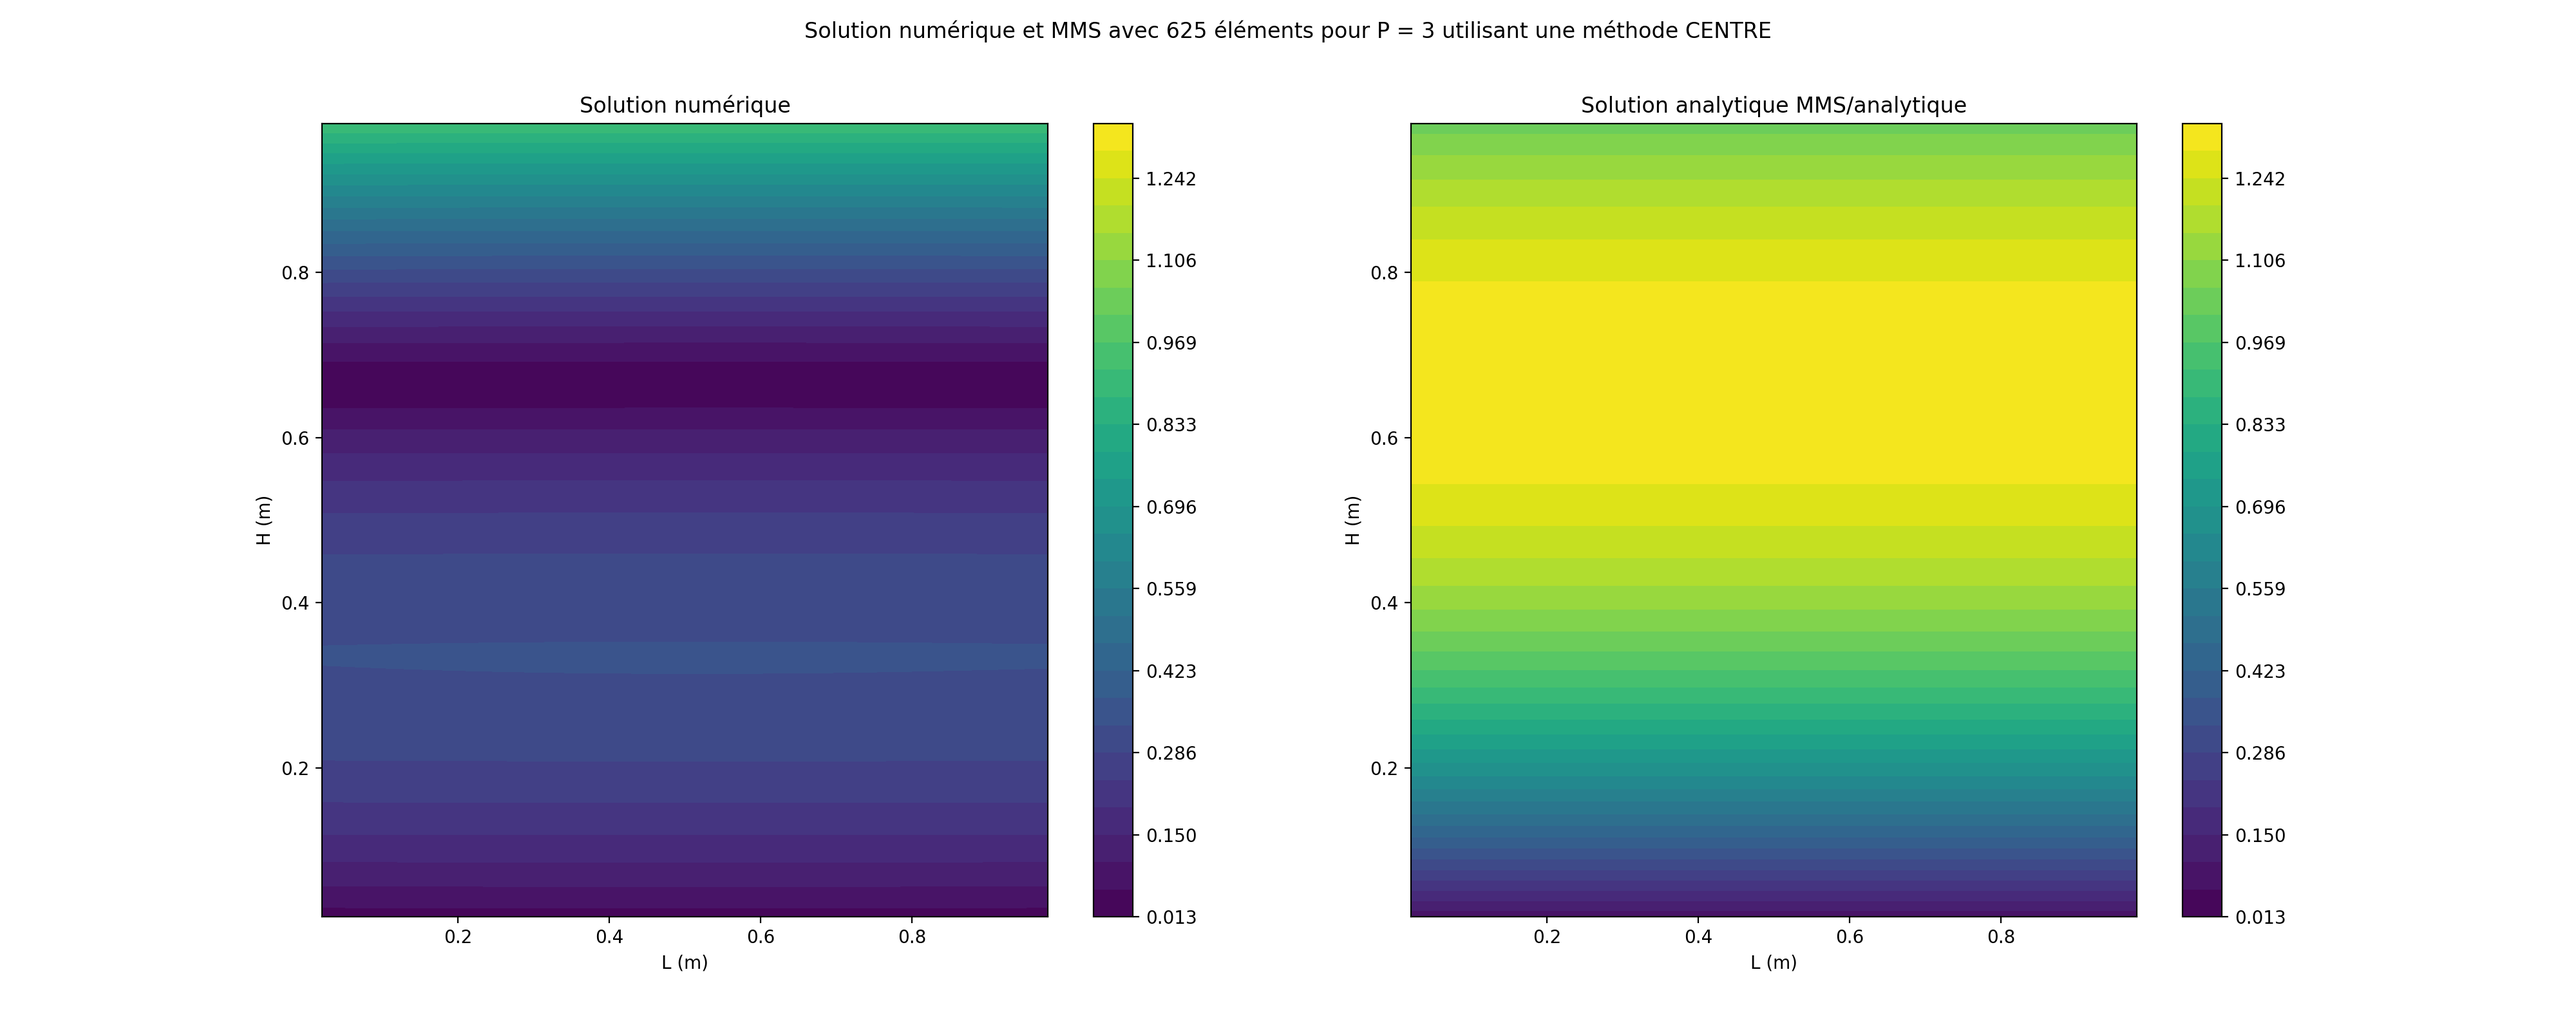
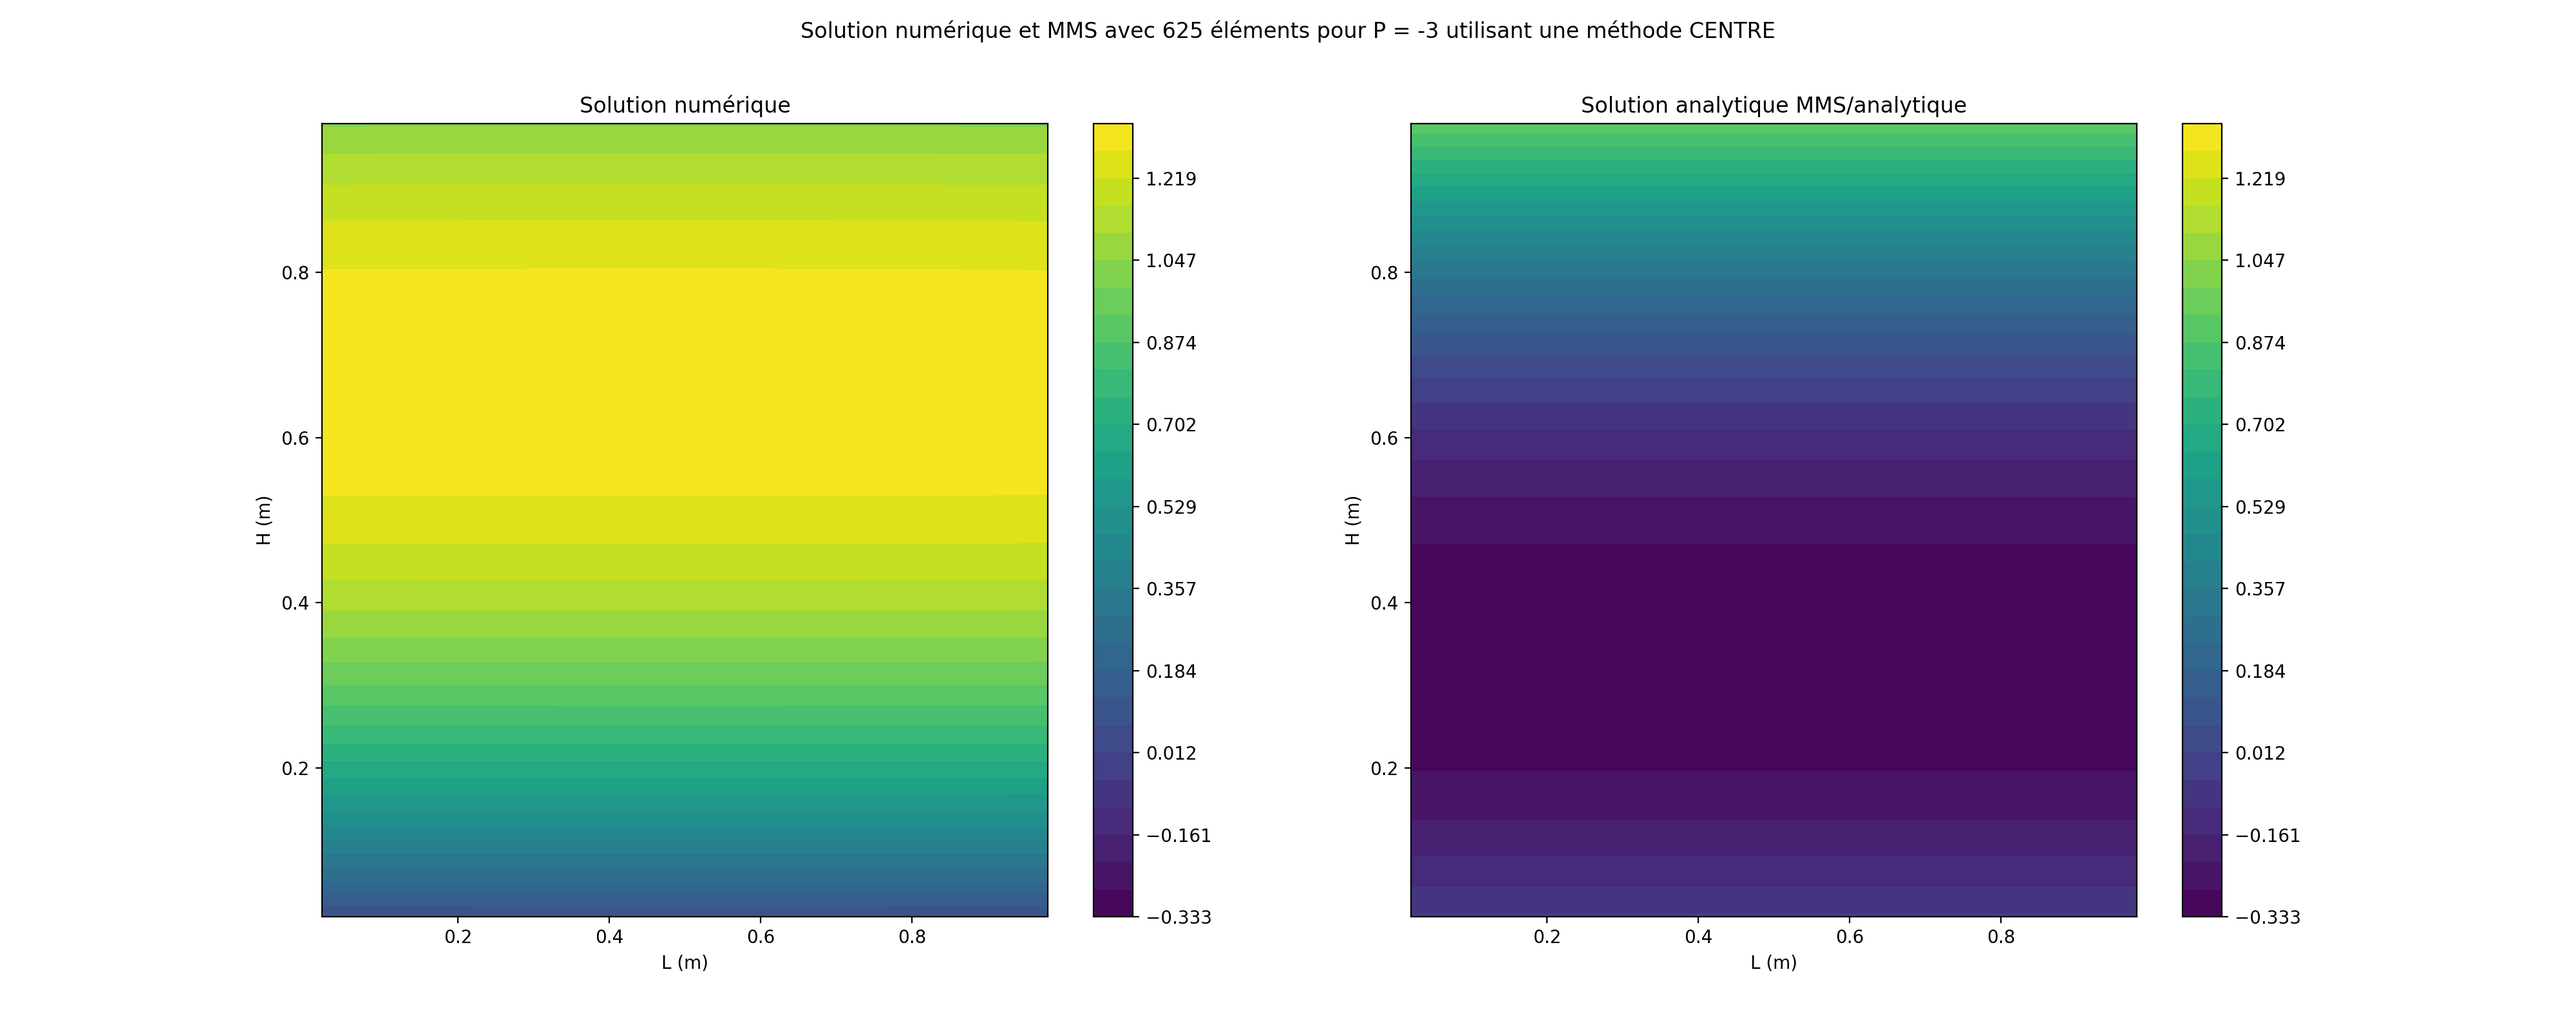
[wip] Solver pour les équations du momentum (not working yet) v2

diff --git a/postProcessing.py b/postProcessing.py
@@ -7,6 +7,10 @@ Utilité : Effectuer le post-traitement des données
 import numpy as np
 import matplotlib.pyplot as plt
 from matplotlib.offsetbox import AnchoredText
+import pyvista as pv
+import pyvistaqt as pvQt
+from meshGenerator import MeshGenerator
+from meshPlotter import MeshPlotter
 
 
 def Coupe_X(Coordonnees, X, Solution, Analytique, Plan):
@@ -40,7 +44,7 @@ class PostProcessing:
         self.data = []          # Initialisation du dictionnaire de données
 
     # Ajoute les données selon un nombre d'éléments'
-    def set_data(self, n, solutions, preprocessing_data, simulation_paramaters):
+    def set_data(self, mesh, solutions, preprocessing_data, simulation_paramaters):
         """
         Modifier les données de l'exemple traité.
         Parameters
@@ -58,9 +62,10 @@ class PostProcessing:
             phi_num[i] = np.sqrt(solutions[0][0][i]**2 + solutions[0][1][i]**2)
             phi_ex[i] = np.sqrt(solutions[1][0][i]**2 + solutions[1][1][i]**2)
 
-        self.data.append({'n': n,
-                          'u_num': solutions[0][0], 'u_ex': solutions[1][0],
-                          'v_num': solutions[0][1], 'v_ex': solutions[1][1],
+        self.data.append({'n': mesh.get_number_of_elements(),
+                          'mesh': mesh,
+                          'u_num': solutions[0][0], 'u_exact': solutions[1][0],
+                          'v_num': solutions[0][1], 'v_exact': solutions[1][1],
                           'phi_num': phi_num,
                           'phi_exact': phi_ex,
                           'area': preprocessing_data[0],
@@ -72,13 +77,13 @@ class PostProcessing:
 
 
     # Génère les graphiques des solutions numérique et analytique
-    def show_solutions(self, mesh, title, save_path):
+    def show_solutions(self, i_mesh, title, save_path):
         """
         Affichage des graphiques qui montrent la différence entre la solution
         numérique et la solution analytique
         Parameters
         ----------
-        mesh: int
+        i_mesh: int
             Maillage de l'exemple traité.
 
         title: str
@@ -92,25 +97,25 @@ class PostProcessing:
         """
         Figure1, (NUM, EX) = plt.subplots(1, 2, figsize=(20, 8))
 
-        Figure1.suptitle(f"{title} avec {self.data[mesh]['n']} éléments pour P = {self.data[mesh]['P']} utilisant une méthode {self.data[mesh]['method']}")
+        Figure1.suptitle(f"{title} avec {self.data[i_mesh]['n']} éléments pour P = {self.data[i_mesh]['P']} utilisant une méthode {self.data[i_mesh]['method']}")
 
         # Set levels of color for the colorbar
-        levels = np.linspace(np.min([self.data[mesh]['phi_num'], self.data[mesh]['phi_exact']]),
-                             np.max([self.data[mesh]['phi_num'], self.data[mesh]['phi_exact']]), num=30)
+        levels = np.linspace(np.min([self.data[i_mesh]['u_num'], self.data[i_mesh]['u_exact']]),
+                             np.max([self.data[i_mesh]['u_num'], self.data[i_mesh]['u_exact']]), num=30)
 
         # Solution numérique
-        c = NUM.tricontourf(self.data[mesh]['position'][:, 0],
-                            self.data[mesh]['position'][:, 1],
-                            self.data[mesh]['phi_num'], levels=levels)
+        c = NUM.tricontourf(self.data[i_mesh]['position'][:, 0],
+                            self.data[i_mesh]['position'][:, 1],
+                            self.data[i_mesh]['u_num'], levels=levels)
         plt.colorbar(c, ax=NUM)
         NUM.set_xlabel("L (m)")
         NUM.set_ylabel("H (m)")
         NUM.set_title("Solution numérique")
 
         # Solution analytique/MMS
-        c = EX.tricontourf(self.data[mesh]['position'][:, 0],
-                           self.data[mesh]['position'][:, 1],
-                           self.data[mesh]['phi_exact'], levels=levels)
+        c = EX.tricontourf(self.data[i_mesh]['position'][:, 0],
+                           self.data[i_mesh]['position'][:, 1],
+                           self.data[i_mesh]['u_exact'], levels=levels)
         plt.colorbar(c, ax=EX)
         EX.set_xlabel("L (m)")
         EX.set_ylabel("H (m)")
@@ -118,14 +123,14 @@ class PostProcessing:
 
         plt.savefig(save_path, dpi=200)
 
-    def show_plan_solutions(self, mesh, title, save_path, X_Coupe, Y_Coupe):
+    def show_plan_solutions(self, i_mesh, title, save_path, X_Coupe, Y_Coupe):
 
         """
         Affichage des graphiques qui montrent les résultats dans des coupes
         en X ou en Y
         Parameters
         ----------
-        mesh: mesh
+        i_mesh: mesh
             Maillage de l'exemple traité.
 
         title: str
@@ -147,14 +152,14 @@ class PostProcessing:
 
         Figure1, (COUPEX, COUPEY) = plt.subplots(1, 2, figsize=(20, 6))
 
-        Figure1.suptitle(f"{title} avec {self.data[mesh]['n']} éléments pour P = {self.data[mesh]['P']} utilisant une méthode {self.data[mesh]['method']}")
+        Figure1.suptitle(f"{title} avec {self.data[i_mesh]['n']} éléments pour P = {self.data[i_mesh]['P']} utilisant une méthode {self.data[i_mesh]['method']}")
 
-        Centres = self.data[mesh]['position']
+        Centres = self.data[i_mesh]['position']
 
         Elem_ds_coupeX, Solution_coupeX, SolutionEX_coupeX = \
-            Coupe_X(Centres, X_Coupe, self.data[mesh]['phi_num'], self.data[mesh]['phi_exact'], 0)
+            Coupe_X(Centres, X_Coupe, self.data[i_mesh]['phi_num'], self.data[i_mesh]['phi_exact'], 0)
         Elem_ds_coupeY, Solution_coupeY, SolutionEX_coupeY = \
-            Coupe_X(Centres, Y_Coupe, self.data[mesh]['phi_num'], self.data[mesh]['phi_exact'], 1)
+            Coupe_X(Centres, Y_Coupe, self.data[i_mesh]['phi_num'], self.data[i_mesh]['phi_exact'], 1)
 
         COUPEX.plot(Solution_coupeX, Elem_ds_coupeX[:, 1], label="Solution Numérique")
         COUPEX.plot(SolutionEX_coupeX, Elem_ds_coupeX[:, 1], '--', label="Solution MMS")
@@ -173,16 +178,26 @@ class PostProcessing:
         # Enregistrer
         plt.savefig(save_path, dpi=200)
 
-    def show_mesh_differences(self, mesh1, mesh2, title, save_path, diff=False):
+    def show_pyvista(self, i_mesh):
+        # Affichage de champ scalaire avec pyvista du dernier maillage
+        plotter = MeshPlotter()
+        nodes, elements = plotter.prepare_data_for_pyvista(self.data[i_mesh]['mesh'])
+        pv_mesh = pv.PolyData(nodes, elements)
+        pv_mesh['Vitesse u'] = self.data[i_mesh]['u_num']
+        pl = pvQt.BackgroundPlotter()
+        pl.add_mesh(pv_mesh, show_edges=True, scalars='Vitesse u', cmap="RdBu")
+        pl.show()
+
+    def show_mesh_differences(self, i_mesh1, i_mesh2, title, save_path, diff=False):
         """
         Affichage des graphiques qui montrent les résultats entre deux types
         de maillage
         Parameters
         ----------
-        mesh1: mesh
+        i_mesh1: mesh
             Maillage 1 de l'exemple traité.
 
-        mesh2: mesh
+        i_mesh2: mesh
             Maillage 2 de l'exemple traité.
 
         title: str
@@ -204,32 +219,32 @@ class PostProcessing:
 
         figure.suptitle(title)
         # Set levels of color for the colorbar
-        levels = np.linspace(np.min(np.append(self.data[mesh1]['phi_num'], self.data[mesh2]['phi_num'])),
-                             np.max(np.append(self.data[mesh1]['phi_num'], self.data[mesh2]['phi_num'])), num=40)
+        levels = np.linspace(np.min(np.append(self.data[i_mesh1]['phi_num'], self.data[i_mesh2]['phi_num'])),
+                             np.max(np.append(self.data[i_mesh1]['phi_num'], self.data[i_mesh2]['phi_num'])), num=40)
 
-        center1 = self.data[mesh1]['position']
-        c = plot1.tricontourf(center1[:, 0], center1[:, 1], self.data[mesh1]['phi_num'], levels=levels)
+        center1 = self.data[i_mesh1]['position']
+        c = plot1.tricontourf(center1[:, 0], center1[:, 1], self.data[i_mesh1]['phi_num'], levels=levels)
         plot1.set_xlabel("L (m)")
         plot1.set_ylabel("H (m)")
-        plot1.set_title(f"Mesh à {self.data[mesh1]['n']} éléments, P = {self.data[mesh1]['P']}, méthode = {self.data[mesh1]['method']}")
+        plot1.set_title(f"Mesh à {self.data[i_mesh1]['n']} éléments, P = {self.data[i_mesh1]['P']}, méthode = {self.data[i_mesh1]['method']}")
         plt.colorbar(c, ax=plot1)
 
-        center2 = self.data[mesh2]['position']
-        c = plot2.tricontourf(center2[:, 0], center2[:, 1], self.data[mesh2]['phi_num'], levels=levels)
+        center2 = self.data[i_mesh2]['position']
+        c = plot2.tricontourf(center2[:, 0], center2[:, 1], self.data[i_mesh2]['phi_num'], levels=levels)
         plot2.set_xlabel("L (m)")
         plot2.set_ylabel("H (m)")
-        plot2.set_title(f"Mesh à {self.data[mesh2]['n']} éléments, P = {self.data[mesh2]['P']}, méthode = {self.data[mesh2]['method']}")
+        plot2.set_title(f"Mesh à {self.data[i_mesh2]['n']} éléments, P = {self.data[i_mesh2]['P']}, méthode = {self.data[i_mesh2]['method']}")
         plt.colorbar(c, ax=plot2)
 
         if diff is True:
-            err = np.abs(self.data[mesh1]['phi_num'] - self.data[mesh2]['phi_num'])
+            err = np.abs(self.data[i_mesh1]['phi_num'] - self.data[i_mesh2]['phi_num'])
 
             levels = np.linspace(np.min(err), np.max(err), num=40)
 
             c = plot3.tricontourf(center1[:, 0], center1[:, 1], err, levels=levels)
             plot3.set_xlabel("L (m)")
             plot3.set_ylabel("H (m)")
-            plot3.set_title(f"Erreur absolue entre les maillages à {self.data[mesh1]['n']} éléments")
+            plot3.set_title(f"Erreur absolue entre les maillages à {self.data[i_mesh1]['n']} éléments")
             plt.colorbar(c, ax=plot3)
 
 

diff --git a/solver.py b/solver.py
@@ -192,7 +192,8 @@ class FVMMomentum:
         it = 0
         while convergence is False:
             # Boucle pour le cross-diffusion
-            for i in range(2):
+            """J'ai mis 1 car on est en quad structuré alors pas besoin de cross diff pour tester"""
+            for i in range(1):
 
                 # Parcours les faces internes et remplis la matrice A et le vecteur B
                 for i_face in range(mesh.get_number_of_boundary_faces(), mesh.get_number_of_faces()):
@@ -208,8 +209,8 @@ class FVMMomentum:
                                                          ptP=centroids[left_elem])
 
                     # Calcule du flux au centre de la face (moyenne simple : (Fxp+FxA)/2 = rho(uxp+uxA)/2)
-                    Fx, Fy = rho*(u[left_elem] + u[right_elem])/2, rho*(v[left_elem] + v[right_elem])/2
-                    F = np.dot([Fx, Fy], n) * dA # Débit massique qui traverse la face
+                    Fx, Fy = rho*0.5*(u[left_elem] + u[right_elem]), rho*0.5*(v[left_elem] + v[right_elem])
+                    F = np.dot([Fx, Fy], n) * dA  # Débit massique qui traverse la face
 
                     # Calcule les projections de vecteurs unitaires
                     PNKSI = np.dot(n, eKSI)       # Projection de n sur ξ
@@ -240,7 +241,9 @@ class FVMMomentum:
                         sys.exit()
 
                     Bu[left_elem]  += Sdc_x
-                    Bu[right_elem] -= Sdc_y
+                    Bu[right_elem] -= Sdc_x
+                    Bv[left_elem]  += Sdc_y
+                    Bv[right_elem] -= Sdc_y
 
 
                 # Parcours les faces sur les conditions frontières et remplis la matrice A et le vecteur B
@@ -298,12 +301,22 @@ class FVMMomentum:
                         """ DOIT ETRE IMPLEMENTÉ!!!  Pareil pour le GLS !!!!! je pense
                         # Comment calculer le F pour une condition de Neumann?? """
                     elif bc_type == "NEUMANN":
-                        Bu[element] += mu * bc_x(xa, ya) * dA
+                        phix = u[element] - bc_x(xa, ya, P) * PNKSI * dKSI  # ui à la CF
+                        phiy = v[element] - bc_y(xa, ya, P) * PNKSI * dKSI  # vi à la CF
 
-                        if method == "UPWIND":
+                        Fx, Fy = rho*phix, rho*phiy
+                        F = np.dot(np.array([Fx, Fy]), n) * dA  # Débit massique qui traverse la face
+
+                        if method == "CENTRE":
+                            Bu[element] += mu * bc_x(xa, ya, P) * dA
+                            Bv[element] += mu * bc_y(xa, ya, P) * dA
+                        elif method == "UPWIND":
                             Au[element, element] += F
-                            Bu[element] += -F * bc_x(xa, ya) * PNKSI * dETA
-
+                            Bu[element] += (mu * dA - F * PNKSI * dKSI) * bc_x(xa, ya, P)
+                            Bv[element] += (mu * dA - F * PNKSI * dKSI) * bc_y(xa, ya, P)
+                        else:
+                            print("La méthode choisie n'est pas convenable, veuillez choisir CENTRE ou UPWIND")
+                            sys.exit()
 
                 # Ajout de la contribution du terme source sur les éléments et calcul de la solution analytique
                 for i_elem in range(mesh.get_number_of_elements()):

diff --git a/processing.py b/processing.py
@@ -65,7 +65,7 @@ class Processing:
             solutions = solver.solve(sim_param['method'])
 
             # Store les résultats de la simulation et des infos pertinentes pour le post-traitement
-            postprocessing.set_data(mesh_obj.get_number_of_elements(), solutions, preprocessing_data, sim_param)
+            postprocessing.set_data(mesh_obj, solutions, preprocessing_data, sim_param)
 
         # S'ils y a du post-traitement, il appelle la fonction qui les exécutes
         if self.postprocessing_parameters is not None:
@@ -74,22 +74,20 @@ class Processing:
     def execute_postprocessing(self, postprocessing):
         for postproc_param in self.postprocessing_parameters:
             if postproc_param == 'solutions':
-                postprocessing.show_solutions(mesh=-1,
-                                              title='Solution numérique et MMS',
+                postprocessing.show_solutions(i_mesh=-1, title='Solution numérique et MMS',
                                               save_path='images/solutions.png')
             elif postproc_param[0] == "plans":
-                postprocessing.show_plan_solutions(mesh=-1,
-                                                   title='Solutions selon des coupes',
-                                                   save_path='images/plans',
-                                                   X_Coupe=postproc_param[1]['x'],
+                postprocessing.show_plan_solutions(i_mesh=-1, title='Solutions selon des coupes',
+                                                   save_path='images/plans', X_Coupe=postproc_param[1]['x'],
                                                    Y_Coupe=postproc_param[1]['y'])
             elif postproc_param == "error":
                 postprocessing.show_error()
             elif postproc_param[0] == 'comparison':
                 postprocessing.show_mesh_differences(postproc_param[1]['mesh'][0], postproc_param[1]['mesh'][1],
-                                                     title='Comparaison de 2 simulations',
-                                                     save_path='images/diff',
+                                                     title='Comparaison de 2 simulations', save_path='images/diff',
                                                      diff=postproc_param[1]['diff'])
+            elif postproc_param[0] == "pyvista":
+                postprocessing.show_pyvista(postproc_param[1]['mesh'])
             else:
                 print(f'Demande de post traitement {postproc_param} invalide.')
 

diff --git a/main.py b/main.py
@@ -66,21 +66,20 @@ def u(x, y, P):
 def v(x, y, P):
     return 0
 
-f_dudy = sp.lambdify([x, y, P], sp.diff(y*(1-P*(1-y)), y, 1), "numpy")
-def dudy(x, y, P):
-    return f_dudy(x, y, P)
+def dudx(x, y, P):
+    return 0
 def dvdx(x, y, P):
     return 0
 
 # Solution analytique
 def couette_flow(x, y, P):
     return U*(y/b) + 1/(2*mu)*dpdx(x, y, P)*y*(y-b)
-
 def null(x, y, P): return 0
+
 
 #%% Conditions frontières et domaine
 # Conditions
-#bcdata = (['NEUMANN', (dudy, dvdx)], ['DIRICHLET', (u, v)], ['NEUMANN', (dudy, dvdx)], ['DIRICHLET', (u, v)])
+#bcdata = (['NEUMANN', (dudx, dvdx)], ['DIRICHLET', (u, v)], ['NEUMANN', (dudx, dvdx)], ['DIRICHLET', (u, v)])
 bcdata = (['DIRICHLET', (u, v)], ['DIRICHLET', (u, v)], ['DIRICHLET', (u, v)], ['DIRICHLET', (u, v)])
 
 
@@ -92,18 +91,23 @@ case = Case(rho, mu, flow_velocities=(u, v), source_terms=(dpdx, dpdy), domain=d
 
 #%% Parametres de simulation et de post-traitement
 
-simulations_parameters = [{'mesh_type': 'QUAD', 'Nx': 25, 'Ny': 25, 'method': 'CENTRE', 'P': 3}] #,
-#                          {'mesh_type': 'QUAD', 'Nx': 25, 'Ny': 25, 'method': 'CENTRE', 'P': 1},
-#                          {'mesh_type': 'QUAD', 'Nx': 25, 'Ny': 25, 'method': 'CENTRE', 'P': -3}]
+simulations_parameters = [{'mesh_type': 'QUAD', 'Nx': 25, 'Ny': 25, 'method': 'CENTRE', 'P': -3}] #,
+#                          {'mesh_type': 'QUAD', 'Nx': 25, 'Ny': 25, 'method': 'CENTRE', 'P': 0},
+#                          {'mesh_type': 'QUAD', 'Nx': 25, 'Ny': 25, 'method': 'CENTRE', 'P': 1}]
 #postprocessing_parameters = ['solutions',
 #                             ('plans', {'x': 0, 'y': 0}),
 #                             ('comparison', {'mesh': [0, 1], 'diff': False})]
 
-postprocessing_parameters = ['solutions']
+postprocessing_parameters = ['solutions',
+                            ('plans', {'x': 0.5, 'y': 0.5}),
+                            ('pyvista', {'mesh': 0})]
 
 processing = Processing(case, bcdata)
 processing.set_analytical_function((couette_flow, null))
 processing.set_simulations_and_postprocessing_parameters(simulations_parameters, postprocessing_parameters)
 processing.execute_simulations()
+
+
+
 plt.show()
 
